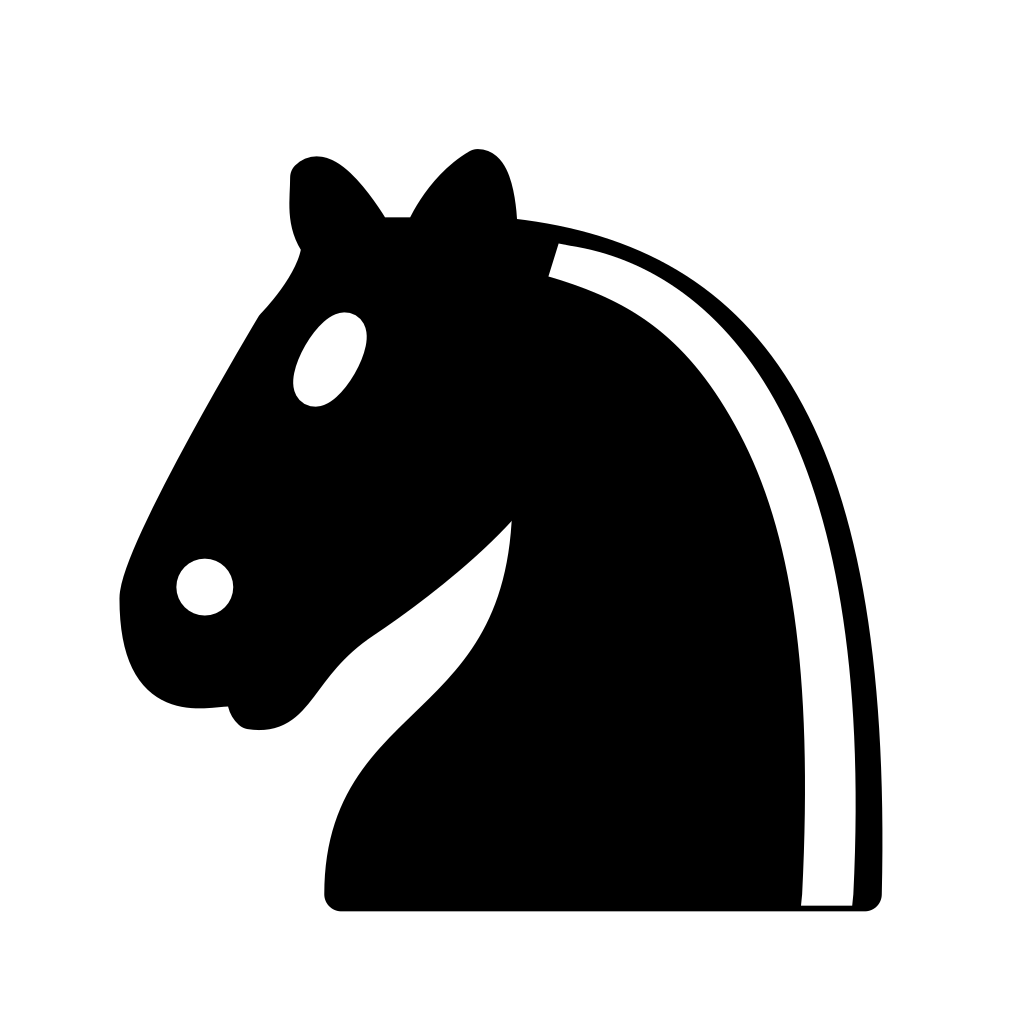
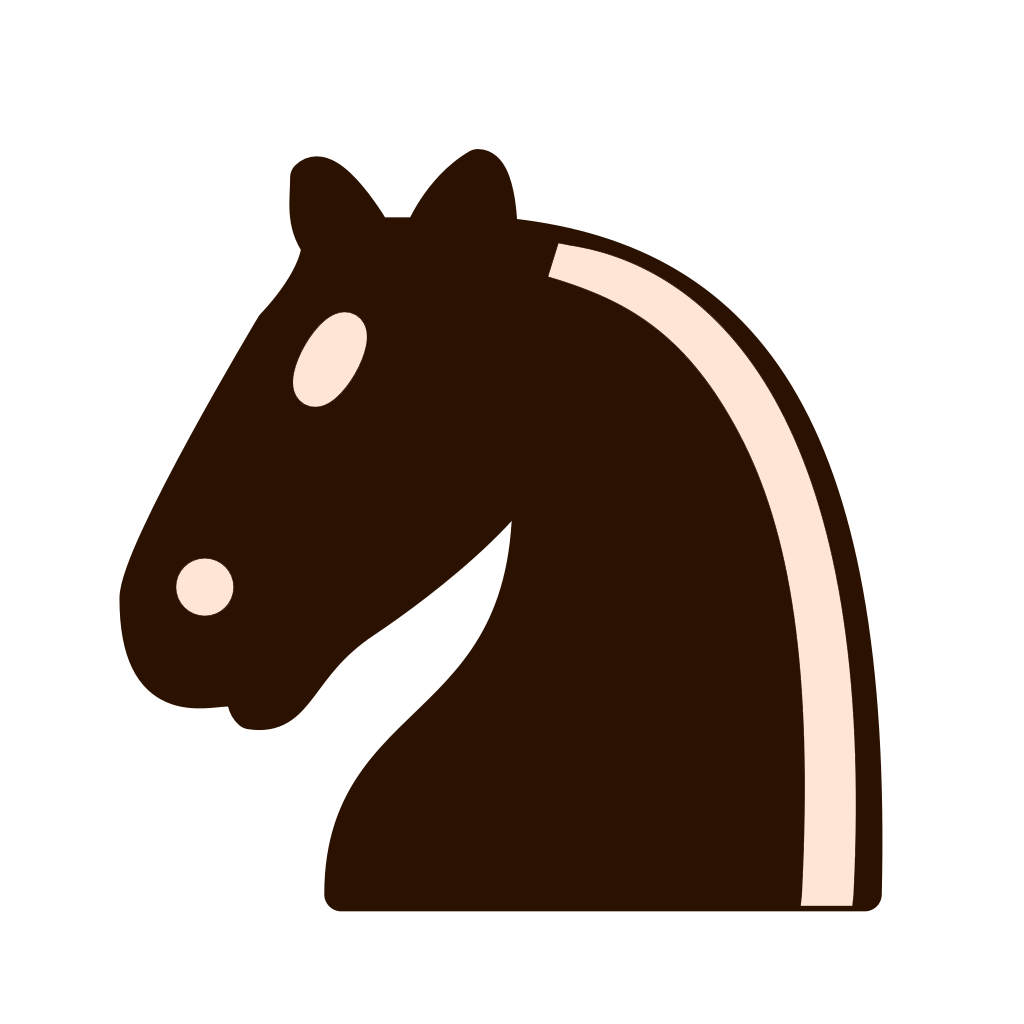
game styled 🧙

diff --git a/CoffeeChess.Web/wwwroot/css/components/game/_chessboard.css b/CoffeeChess.Web/wwwroot/css/components/game/_chessboard.css
@@ -9,3 +9,22 @@
     border-radius: 40px;
     overflow: hidden;
 }
+
+.highlight2-9c5d2, 
+.highlight1-32417 {
+    box-shadow: inset 0 0 0 3px var(--dark-coffee-unselected);
+}
+
+.white-1e1d7 {
+    background-color: var(--milk-coffee-chess-square);
+    font-family: 'Montserrat', sans-serif;
+    color: var(--dark-coffee);
+    transition: box-shadow 0.1s ease;
+}
+
+.black-3c85d {
+    background-color: var(--dark-coffee-chess-square);
+    font-family: 'Montserrat', sans-serif;
+    color: var(--milk-coffee);
+    transition: box-shadow 0.1s ease;
+}

diff --git a/CoffeeChess.Web/wwwroot/js/game/board-setup.js b/CoffeeChess.Web/wwwroot/js/game/board-setup.js
@@ -28,7 +28,8 @@ $(document).ready(function () {
         onDragStart: onDragStart,
         onDrop: onDrop,
         onSnapEnd: onSnapEnd,
-        pieceTheme: '../img/chesspieces/{piece}.png'
+        pieceTheme: '../img/chesspieces/{piece}.png',
+        snapbackSpeed: 250
     };
     board = Chessboard('myBoard', config);
 });

diff --git a/CoffeeChess.Web/wwwroot/css/site.css b/CoffeeChess.Web/wwwroot/css/site.css
@@ -8,6 +8,8 @@
     --dark-coffee: #2B1100;
     --milk-coffee-unselected: rgba(255, 230, 212, 0.6);
     --dark-coffee-unselected: rgba(43, 17, 0, 0.6);
+    --milk-coffee-chess-square: #FFE6D4;
+    --dark-coffee-chess-square: rgb(171, 129, 99);
 }
 
 html, 
